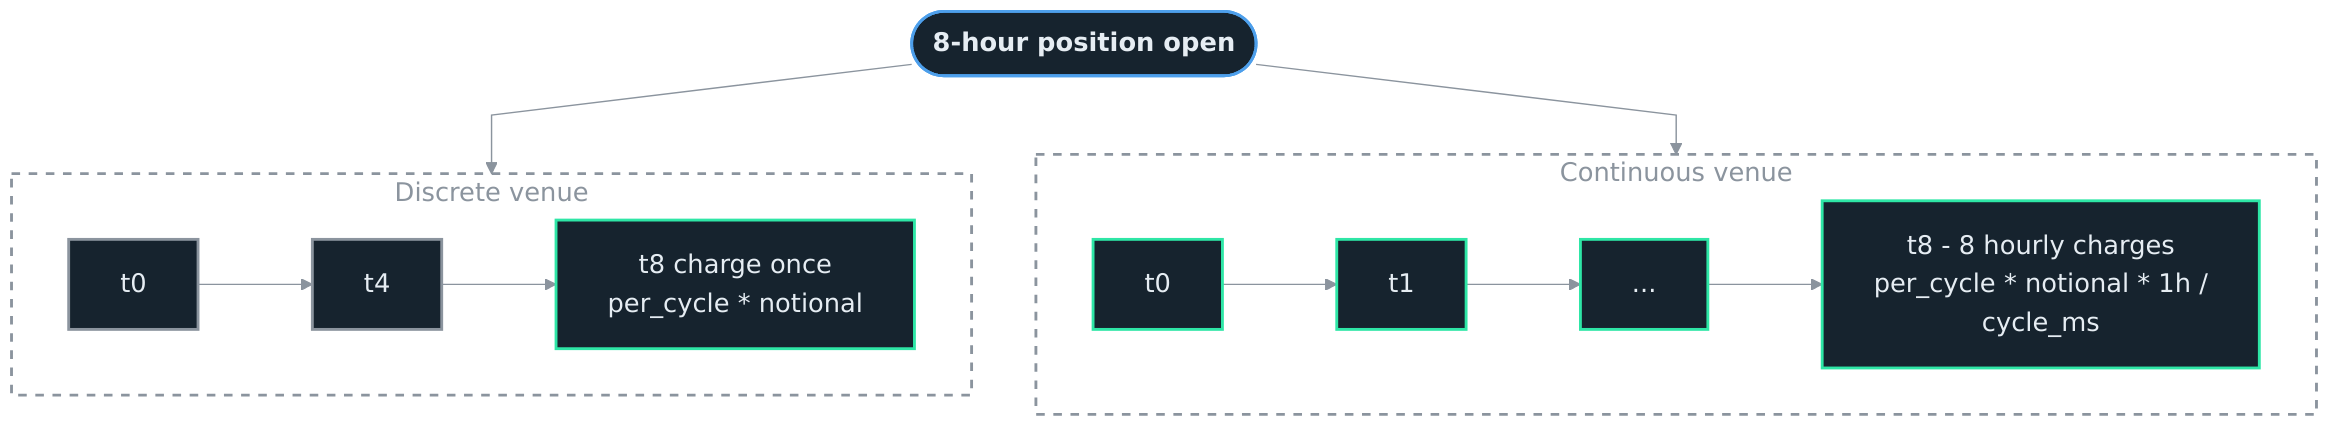
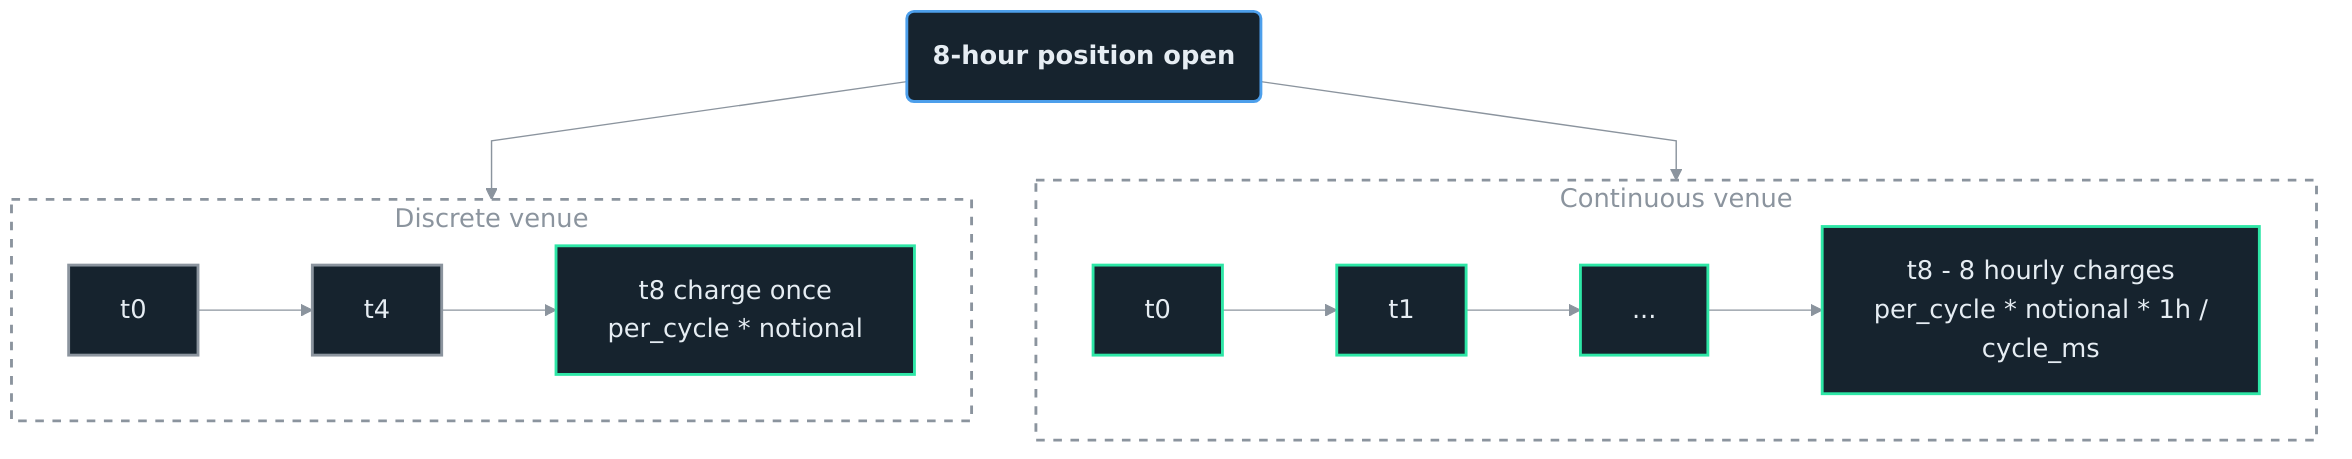
docs: drop the stadium nodes and redraw the websocket fan-out
The five diagrams built on a stadium node were visually identical between runs
and byte identical never, so every rerun reported modified files carrying no
change. They are rounded rectangles now and all seven are byte reproducible,
which makes a rerun a check again rather than noise to be ignored.

204647 drew the ws endpoint as a sink taking four converging arrows, when a
client connects through it and the manager then writes to the socket directly.
204651's caption described Binance's used-weight path as the router's; one
adapter of six reads that header.

diff --git a/.Documentation/Contributor_Guide.md b/.Documentation/Contributor_Guide.md
@@ -144,9 +144,9 @@ The images are numbered rather than named and the descriptive name survives only
 
 **Three things the setup depends on.** The image's bundled headless-shell is broken with an ENOENT, so `puppeteer.json` points `executablePath` at the chromium the image also ships, and its entrypoint is `mmdc` itself, so the command above clears it and calls the binary by full path. The background has to be `transparent` rather than white, or the images invert badly against GitHub's dark mode, which is what the replaced set did. And no `-w`: mermaid's own width keeps the wide diagrams at a consistent 2352 across, which is why the `width=` values in the pages can stay as they are.
 
-**On rerunning.** The renderer is pinned to a digest rather than to `latest`, and that pin is what makes the paragraph below true over time rather than only within an afternoon: `latest` and the version tag are different images today, the tag names the mermaid version rather than the `mmdc` build inside it, and an unpinned rerun is free to relayout every picture at once. At this digest all seven come back at the pixel dimensions committed here.
+**On rerunning.** The renderer is pinned to a digest rather than to `latest`, and that pin is what makes the paragraph below true over time rather than only within an afternoon: `latest` and the version tag are different images today, the tag names the mermaid version rather than the `mmdc` build inside it, and an unpinned rerun is free to relayout every picture at once. At this digest all seven come back byte identical, not merely at the pixel dimensions committed here, and two consecutive runs confirm it.
 
-Layout is deterministic: every image comes back at the identical pixel dimensions every time. The byte stream is not, for the five diagrams that contain a stadium node. Anti-aliasing along a rounded outline lands a handful of edge pixels differently between runs, on the order of 0.013 percent of the image, so a rerun is visually identical but shows as a modified file in git. Do not read that diff as a change; check the dimensions instead. Two consecutive runs at this digest confirm it: 204644 and 204650, the two with no stadium node, come back byte identical, and the other five do not.
+That last property is a property of the shapes as much as of the renderer, and it is worth knowing before adding a diagram. A stadium node's rounded outline anti-aliases a handful of edge pixels differently between runs, on the order of 0.013 percent of the image, so the five diagrams that used one were visually identical and never byte identical, and every rerun showed them as modified files carrying no change. They are rounded rectangles now, which read the same and are stable. The curve itself is not the problem, and 204644 is the evidence: its three cylinders and its one rounded node were byte identical throughout. Keep stadium nodes out of this set, and a rerun stays the check it is supposed to be, because any diff it produces is then a real one.
 
 **The palette** in `config.json` is the same file emsl uses, so the two repos' diagrams are one visual set: node fill `#16232e`, a teal `#2ee6a6` border for anything the service does itself, a blue `#4d9feb` one for anything a caller or an upstream initiates, `#e6edf3` text, `#8b949e` arrows, trebuchet sans. Two classes are local to this repo, both on the rate-limit and lifecycle flows: `#c98500` for a degraded path that still returns, and `#ff5470` for a terminal one. It also names the cluster and edge-label colours, which look like padding and are not: mermaid derives whatever the palette leaves out, and left to itself it draws cluster frames as opaque brown boxes.
 

diff --git a/.Documentation/System_Architecture.md b/.Documentation/System_Architecture.md
@@ -103,7 +103,7 @@ Each adapter holds a shared `_backoff_until` timestamp guarded by an `asyncio.Lo
 
 <div align="center">
   <img src="imgs/204651.png" alt="Rate-limit and ban avoidance" width="40%" />
-  <p style="margin: 0;"><i>The per-request path: wait out any active host backoff, throttle proactively when the used-weight header nears the budget, honor Retry-After on 429 or 418, and fail fast with 503 plus Retry-After once retries are spent</i></p>
+  <p style="margin: 0;"><i>Binance's per-request path, the most instrumented of the six: wait out any active host backoff, throttle proactively once the used-weight header passes 95 percent of that host's budget, honor Retry-After on 429 or 418, and fail with 503 plus Retry-After once the retries are spent. The backoff window and the retry ladder are common to every adapter; the weight header is Binance's alone</i></p>
 </div>
 
 <br>
